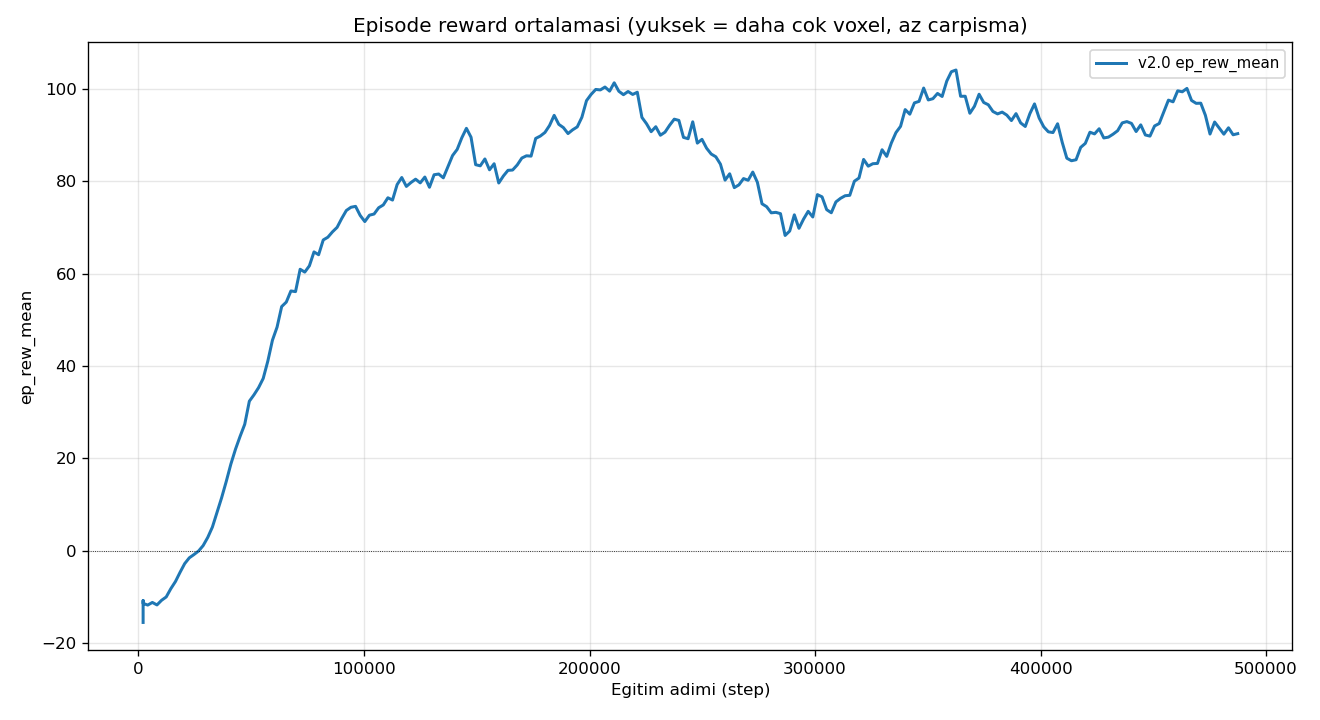
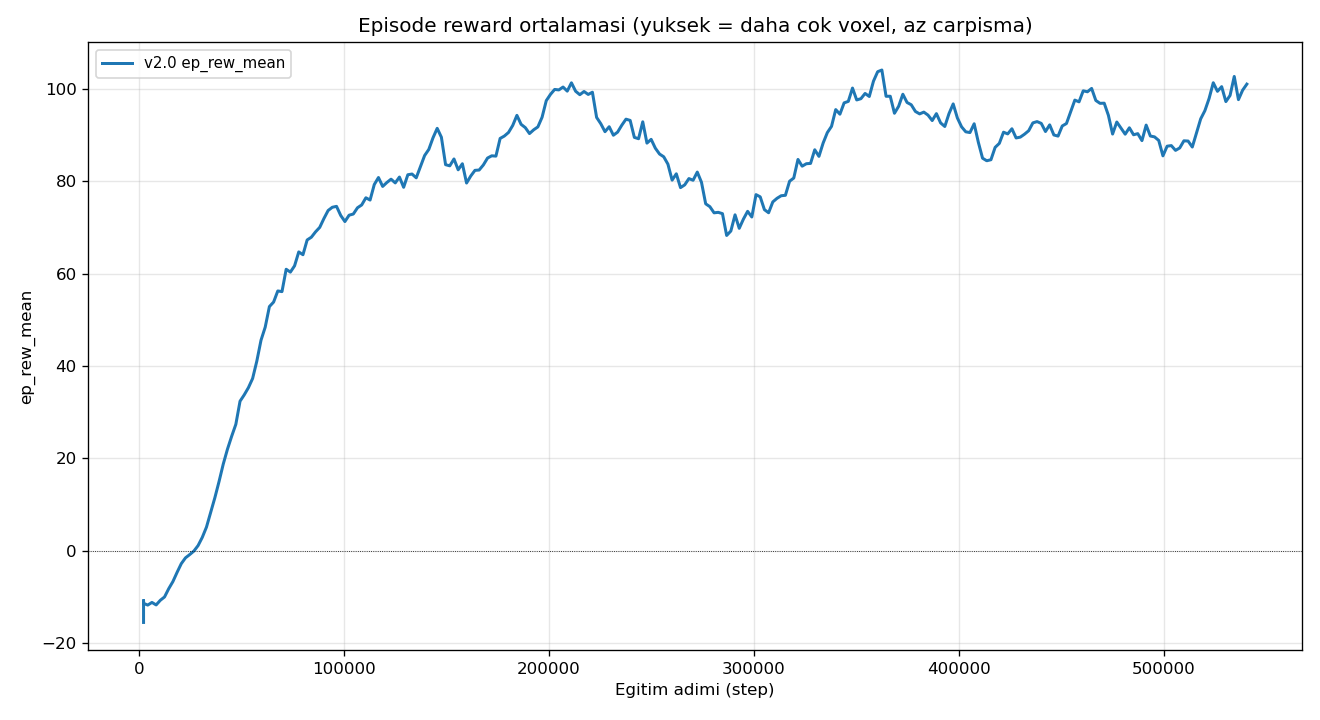
auto(operator): healthy tick @540672 step, reward 101.1 near peak 104.1

diff --git a/docs/REPORT.md b/docs/REPORT.md
@@ -6,7 +6,7 @@ Otomatik uretildi (`scripts/report.py`). Operator agent gunceller.
 
 | Versiyon | Son step | Son reward | Peak reward | Peak voxel (max) | Peak oda (max) |
 |---|---|---|---|---|---|
-| v2.0 | 487,424 | +90.3 | +104.1 | 212/1024 | 6/6 |
+| v2.0 | 540,672 | +101.1 | +104.1 | 217/1024 | 6/6 |
 
 ## Versiyon / Mudahale Gunlugu
 
